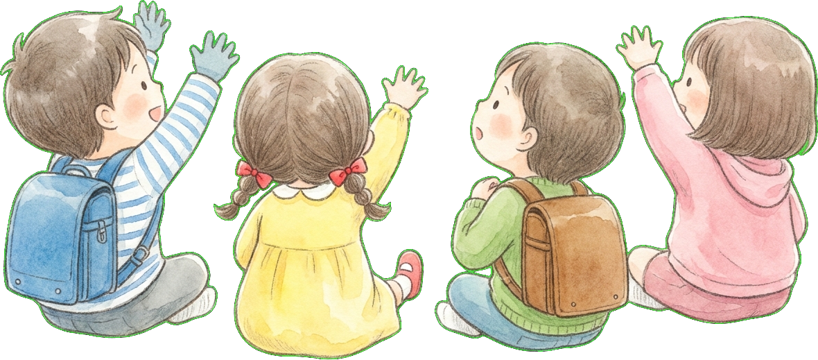
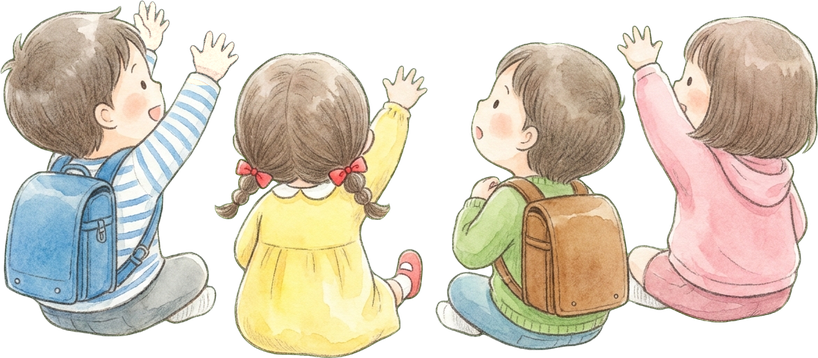
Đồng bộ từ chinesekidsvn.com: YCT tự học: sửa da cô giáo + tay các bạn bị xanh (tách nền lại từ ảnh gốc)

diff --git a/hoc/yct-tu-hoc/index.html b/hoc/yct-tu-hoc/index.html
@@ -1124,7 +1124,7 @@ const pic=e=>isNum(e)?`<span class="e num">${e}</span>`:`<span class="e">${im(e)
 /* trang chủ */
 function home(){
   document.getElementById("backBtn").hidden=true;
-  app.innerHTML=`<section class="card stage coGT" id="stage"><img class="moonpal floaty" src="${H["🌛"]||""}" alt="Ông Mặt Trăng"><div class="gtCo"><img class="gtGiao" src="img/lop/co-giao.webp" alt="Cô giáo SunMoon"><span class="song"><i></i><i></i><i></i></span><button class="sunbtn" aria-label="Nghe Cô Mặt Trời nói">${SUNSVG}</button></div>
+  app.innerHTML=`<section class="card stage coGT" id="stage"><img class="moonpal floaty" src="${H["🌛"]||""}" alt="Ông Mặt Trăng"><div class="gtCo"><img class="gtGiao" src="img/lop/co-giao.webp?v=${AV}" alt="Cô giáo SunMoon"><span class="song"><i></i><i></i><i></i></span><button class="sunbtn" aria-label="Nghe Cô Mặt Trời nói">${SUNSVG}</button></div>
     <div><div class="bubble"><span class="who">Cô Mặt Trời</span><span class="txt">Xin chào các bạn nhỏ! Bấm vào cô để nghe cô nói nhé!</span></div>
     <div class="stagebar" style="margin-top:10px"><button class="big" id="gtPlay">▶ Nghe Cô Mặt Trời</button></div></div></section>
   <section class="card batDau"><b class="bdTieu">👉 Bắt đầu ở đây</b>
@@ -1351,7 +1351,7 @@ async function chia(g){if(CK[g])return CK[g];const r=U&&U.k&&U.k[g];if(!r)throw 
 async function giaiMa(url,g){const r=await fetch(url);if(!r.ok)throw new Error("khong-tai");const b=new Uint8Array(await r.arrayBuffer());return crypto.subtle.decrypt({name:"AES-GCM",iv:b.slice(0,12)},await chia(g),b.slice(12))}
 async function moBai(n){ND[n]=JSON.parse(new TextDecoder().decode(await giaiMa(`enc/c${n}.bin`,nhomCD(n))))}
 const BLOB={},MIME={mp3:"audio/mpeg",mp4:"audio/mp4",pdf:"application/pdf"};
-const AV="202610061831";   // = số trong phien-ban.json — chạy bash nang-ban.sh mỗi lần sửa
+const AV="202610061836";   // = số trong phien-ban.json — chạy bash nang-ban.sh mỗi lần sửa
 /* 06/10 chị: học viên đang mở app cũng TỰ NHẬN BẢN MỚI — mở lại app / quay lại tab là kiểm, có bản mới thì tự tải lại (không mất tiến độ: tiến độ lưu trong máy) */
 function kiemBanMoi(){fetch("phien-ban.json?t="+Date.now(),{cache:"no-store"}).then(r=>r.json()).then(j=>{if(!j||!j.v||j.v===AV)return;
   const dang=document.querySelector(".ls,.pw,.mung,.cd,.vidCo")||/^#(cd|b)\d/.test(location.hash);if(dang){   /* 06/10: đang trong bài thì KHÔNG tự tải lại (trước đây làm bé "nhảy về trang phiên âm") — chỉ hiện nút */
@@ -1738,7 +1738,7 @@ function moVideo(au,cueUrl){if(document.querySelector(".vidCo"))return;
   const o=document.createElement("div");o.className="vidCo";o.innerHTML=`<div class="vcKhung"><button class="vcX" aria-label="Đóng">✕</button><div class="vcCanh">
       <div class="vcBang"><div class="vcHinh"></div><div class="vcChu"></div></div>
       <div class="vcSan"></div>
-      <img class="vcGiao" src="img/lop/co-giao.webp" alt=""><img class="vcBan2" src="img/lop/cac-ban.webp" alt="">
+      <img class="vcGiao" src="img/lop/co-giao.webp?v=${AV}" alt=""><img class="vcBan2" src="img/lop/cac-ban.webp?v=${AV}" alt="">
       <div class="vcCo">${lvNoi()}<span class="vcTen">Cô Mặt Trời</span></div></div>
     <div class="vcDk"><button class="vcPP" aria-label="Phát / dừng">⏸</button><input type="range" class="vcTua" min="0" max="1" step=".1" value="0" aria-label="Tua"><span class="vcTg">0:00</span></div></div>`;
   document.body.appendChild(o);document.body.style.overflow="hidden";
